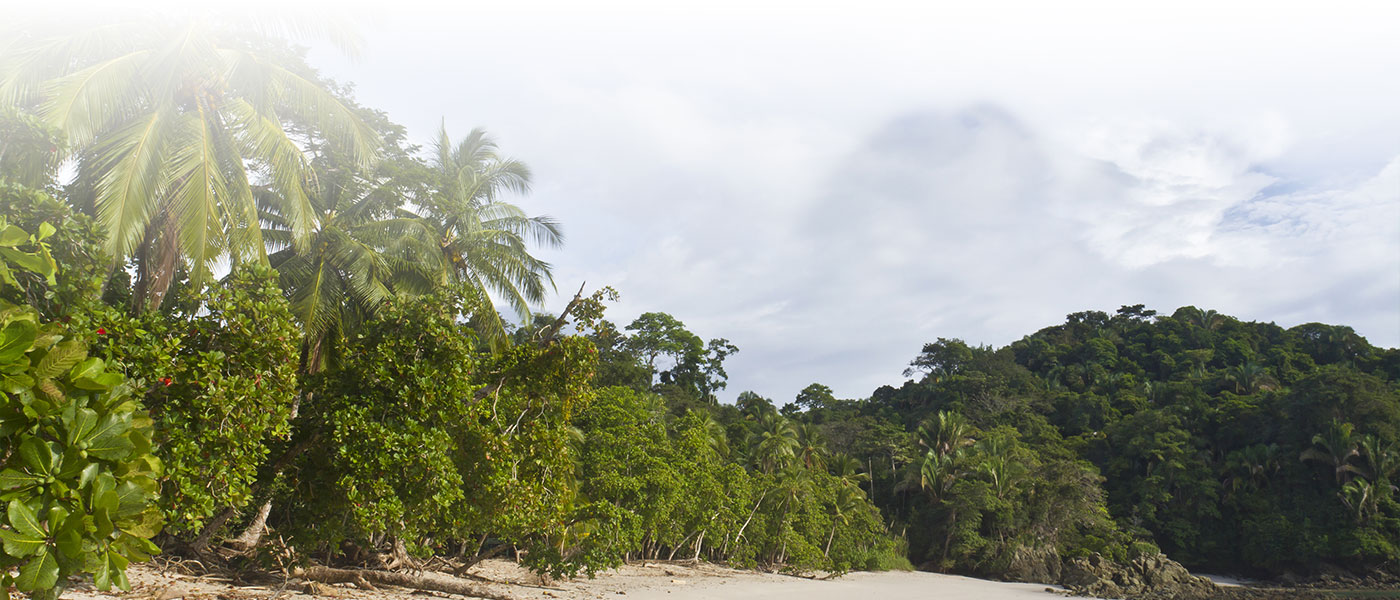
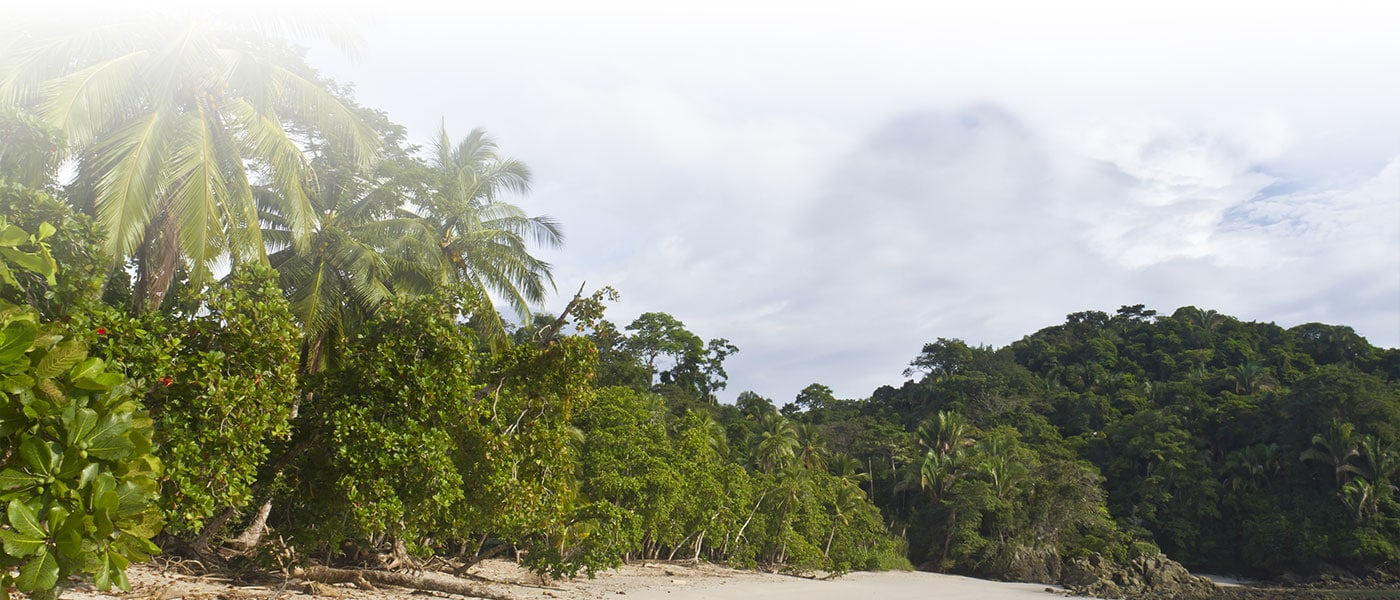
update main splash image

Changed region(s): [[0.1536, 0.78, 0.1843, 0.84], [0.3686, 0.78, 0.3993, 0.81]]

diff --git a/SCSS/orawellness.scss b/SCSS/orawellness.scss
@@ -2182,15 +2182,15 @@ div.home-header {
         @media screen and (min-width: 801px) {
             min-height: 45rem;
             background-position: bottom right;
-            background-size: 45%;
+            background-size: 50%;
         }
         @media screen and (max-width: 800px) {
             min-height: 55rem;
             background-position: bottom center;
-            background-size: 20em;
+            background-size: 30em;
         }
         @media screen and (max-width: 479px) {
-            background-size: 15em;
+            background-size: 20em;
         }
     }
 
